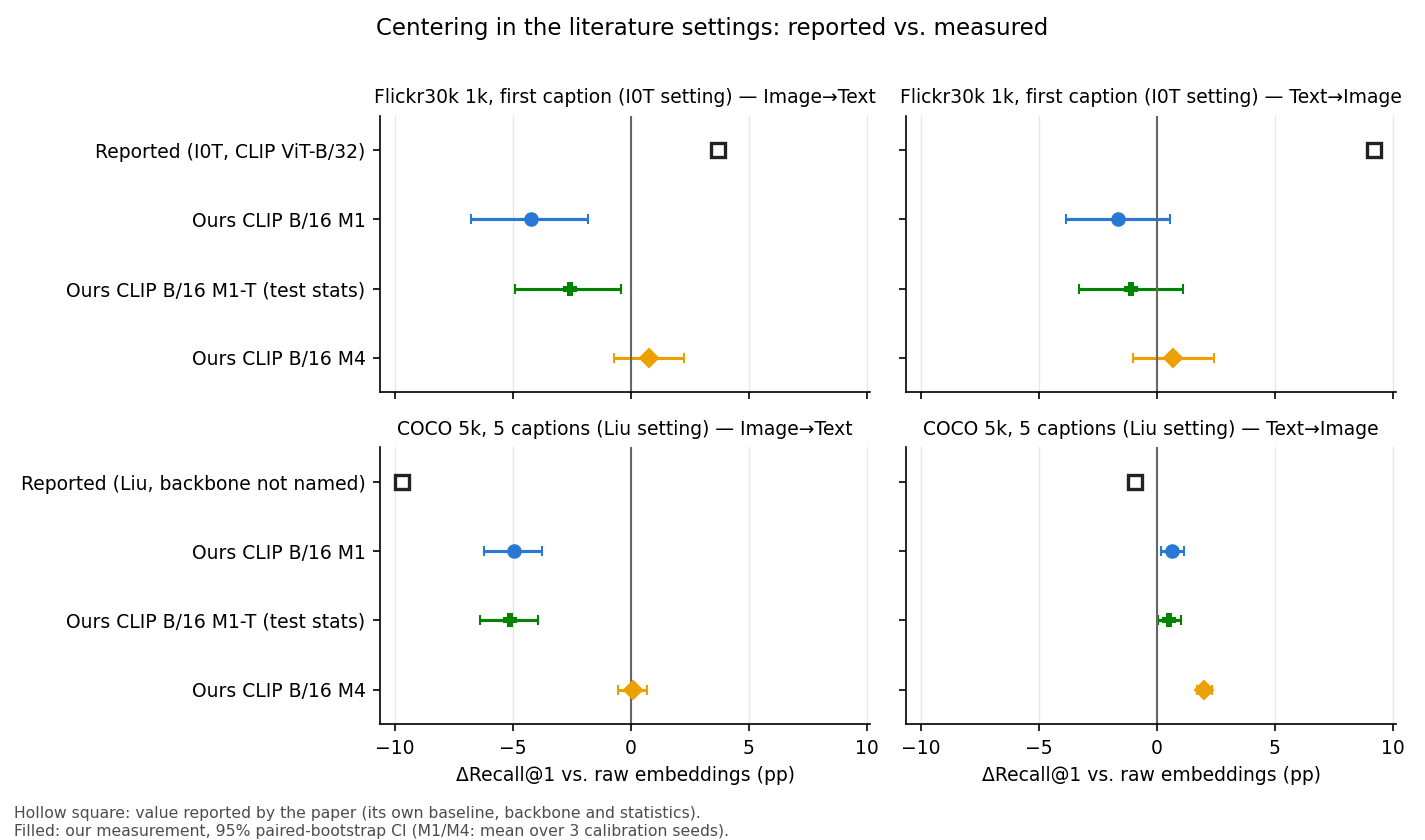
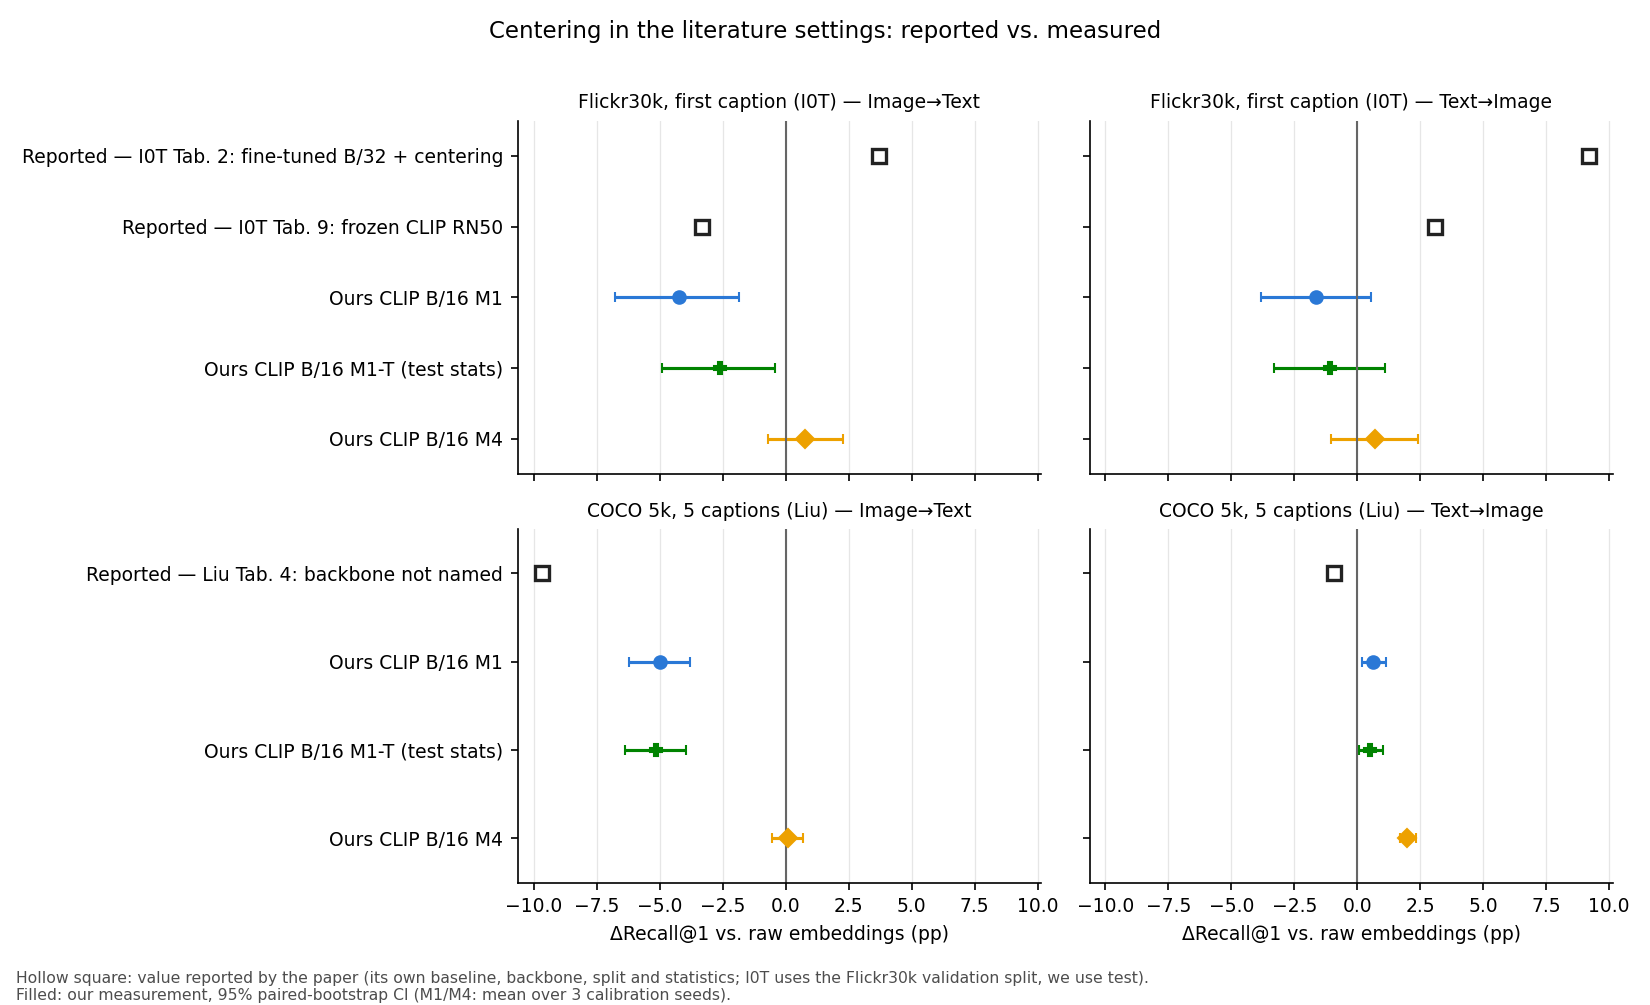
docs: re-check literature numbers against the papers; add I0T Table 9 (frozen CLIP) to the comparison; fix M2 attribution

diff --git a/scripts/c7_literature_comparison.py b/scripts/c7_literature_comparison.py
@@ -1,13 +1,18 @@
 """Literature comparison: our M0/M1 retrieval numbers in the settings of
-I0T (An et al. 2025, Table 2) and Liu et al. 2026 (Table 4).
+I0T (An et al. 2025, Tables 2 and 9) and Liu et al. 2026 (Table 4).
 
 Only our numbers are written to the CSV; the reported numbers stay in
 results/paper_reported.json and are referenced by key (column
 `reported_entry`). The figure shows both, with the reported values marked
 as such. Nothing is tuned to match the papers.
 
-  I0T setting:  Flickr30k 1k test, first caption per image   (paper: CLIP ViT-B/32)
-  Liu setting:  COCO 5k test, 5 captions per image            (paper: backbone not named in the table)
+  I0T protocol: Flickr30k 1k, first caption per image. I0T evaluates on the
+                Karpathy *validation* split with means from those samples; we
+                evaluate on the test split. Reported references:
+                  Table 2  I0T_post on fine-tuned ViT-B/32 encoders (LCCOM) vs.
+                           the original CLIP -> fine-tuning and centering combined
+                  Table 9  centering on the original, frozen CLIP RN50
+  Liu setting:  COCO 5k test, 5 captions per image (backbone not named in the table)
 
 Methods shown: M0, M1 (10k in-domain train pairs, mean over 3 seeds),
 M1-T (test statistics, diagnostic -- the likely I0T condition), M4.
@@ -32,10 +37,16 @@ FIG = ROOT / "results" / "figures"
 MODELS = ["clip_b16", "clip_b32", "siglip_b16"]
 SHORT = {"clip_b16": "CLIP B/16", "clip_b32": "CLIP B/32", "siglip_b16": "SigLIP B/16"}
 MAIN_N = 10000
-# setting -> (dataset, protocol, key in paper_reported.json, baseline row, corrected row, label)
+# setting -> (dataset, protocol, panel title)
 SETTINGS = {
-    "I0T": ("flickr30k", "first", "i0t_table2", "CLIP", "I0T_post", "Flickr30k 1k, first caption (I0T setting)"),
-    "Liu": ("mscoco", "5cap", "liu2026_table4", "Original CLIP", "Mean-Centering", "COCO 5k, 5 captions (Liu setting)"),
+    "I0T": ("flickr30k", "first", "Flickr30k, first caption (I0T)"),
+    "Liu": ("mscoco", "5cap", "COCO 5k, 5 captions (Liu)"),
+}
+# setting -> reported references: (key in paper_reported.json, baseline row, corrected row, label)
+REPORTED = {
+    "I0T": [("i0t_table2", "CLIP", "I0T_post", "I0T Tab. 2: fine-tuned B/32 + centering"),
+            ("i0t_table9", "CLIP", "CLIP_post", "I0T Tab. 9: frozen CLIP RN50")],
+    "Liu": [("liu2026_table4", "Original CLIP", "Mean-Centering", "Liu Tab. 4: backbone not named")],
 }
 DIRS = [("i2t", "Image→Text"), ("t2i", "Text→Image")]
 METHODS = ["M0", "M1", "M1-T", "M4"]
@@ -51,7 +62,8 @@ def ours(models):
     rows = []
     for m in models:
         r = pd.read_csv(RES / f"retrieval_{m}.csv")
-        for setting, (ds, proto, key, *_rest) in SETTINGS.items():
+        for setting, (ds, proto, _t) in SETTINGS.items():
+            key = ";".join(k for k, *_ in REPORTED[setting])
             for d, _ in DIRS:
                 g = r[(r.dataset == ds) & (r.protocol == proto) & (r.direction == d)]
                 for meth in METHODS:
@@ -78,24 +90,26 @@ def ours(models):
 def reported():
     paper = json.loads((ROOT / "results" / "paper_reported.json").read_text(encoding="utf-8"))
     out = {}
-    for setting, (_ds, _p, key, base, corr, _t) in SETTINGS.items():
-        rows = {r["method"]: r for r in paper[key]["rows"]}
-        out[setting] = {"model": paper[key]["model"] or "backbone not named",
-                        **{d: (rows[base][f"{d}_R@1"], rows[corr][f"{d}_R@1"]) for d, _ in DIRS}}
+    for setting, refs in REPORTED.items():
+        out[setting] = []
+        for key, base, corr, label in refs:
+            rows = {r["method"]: r for r in paper[key]["rows"]}
+            out[setting].append({"label": label, **{d: (rows[base][f"{d}_R@1"], rows[corr][f"{d}_R@1"]) for d, _ in DIRS}})
     return out
 
 
 def figure(df, rep):
     models = [m for m in MODELS if m in set(df.model)]
-    fig, axes = plt.subplots(2, 2, figsize=(9.5, 1.2 + 0.55 * (1 + 3 * len(models)) * 2), sharex=True)
+    fig, axes = plt.subplots(2, 2, figsize=(11, 1.2 + 0.55 * (2 + 3 * len(models)) * 2), sharex=True)
     for r, (setting, (*_x, title)) in enumerate(SETTINGS.items()):
         for c, (d, dname) in enumerate(DIRS):
             ax = axes[r, c]
             labels, y = [], 0
-            base, corr = rep[setting][d]
-            ax.plot(corr - base, y, marker="s", ms=7, mfc="white", mec=REPORTED_COLOR, mew=1.6, ls="none")
-            labels.append(f"Reported ({setting}, {rep[setting]['model']})")
-            y += 1
+            for ref in rep[setting]:
+                base, corr = ref[d]
+                ax.plot(corr - base, y, marker="s", ms=7, mfc="white", mec=REPORTED_COLOR, mew=1.6, ls="none")
+                labels.append(f"Reported — {ref['label']}")
+                y += 1
             for m in models:
                 for meth in ["M1", "M1-T", "M4"]:
                     q = df[(df.model == m) & (df.setting == setting) & (df.direction == d) & (df.method == meth)]
@@ -114,7 +128,8 @@ def figure(df, rep):
             ax.set_title(f"{title} — {dname}", fontsize=9)
             if r == 1:
                 ax.set_xlabel("ΔRecall@1 vs. raw embeddings (pp)")
-    fig.text(0.01, 0.005, "Hollow square: value reported by the paper (its own baseline, backbone and statistics).\n"
+    fig.text(0.01, 0.005, "Hollow square: value reported by the paper (its own baseline, backbone, split and statistics; "
+                          "I0T uses the Flickr30k validation split, we use test).\n"
                           "Filled: our measurement, 95% paired-bootstrap CI (M1/M4: mean over 3 calibration seeds).",
              fontsize=7.5, color="0.3")
     fig.suptitle("Centering in the literature settings: reported vs. measured", fontsize=11)

diff --git a/scripts/make_summary.py b/scripts/make_summary.py
@@ -197,22 +197,25 @@ def literature():
     w()
     w("Source: `results/improvement/literature_comparison.csv` (ours) and `results/paper_reported.json` "
       "(reported by the papers, not measured by us). Figure: `results/figures/fig_literature_comparison.png`. "
-      "Reported rows use the papers' own baselines, backbones and statistics; ours use the setup of §2.1. "
+      "Reported rows use the papers' own baselines, backbones, splits and statistics; ours use the setup of §2.1. "
+      "I0T evaluates on the Flickr30k Karpathy validation split with means from the evaluated samples; its Table 2 "
+      "applies centering to fine-tuned encoders (compared with the original CLIP), its Table 9 to the frozen CLIP RN50. "
       "M1/M4: mean over 3 calibration seeds of the estimate and the per-seed 95% CI bounds. "
       "M1-T uses test statistics (diagnostic only).")
     w()
-    specs = [("I0T", "i0t_table2", "CLIP", "I0T_post", "Flickr30k 1k, first caption"),
-             ("Liu", "liu2026_table4", "Original CLIP", "Mean-Centering", "COCO 5k, 5 captions")]
+    import sys
+    sys.path.insert(0, str(ROOT / "scripts"))
+    from c7_literature_comparison import REPORTED, SETTINGS as LSET
     for d, dname in DIRS.items():
         w(f"**{dname}** (R@1, %)")
         w()
         rows = []
-        for setting, key, base, corr, title in specs:
-            e = paper[key]
-            rr = {r["method"]: r for r in e["rows"]}
-            b, c = rr[base][f"{d}_R@1"], rr[corr][f"{d}_R@1"]
-            rows.append([title, f"reported: {setting} ({e['source'].split(';')[0].split(' (')[0]})", e["model"] or "not named",
-                         f"{b:.2f}", f"{c:.2f} ({corr})", f"{c - b:+.2f}", ""])
+        for setting, refs in REPORTED.items():
+            title = LSET[setting][2]
+            for key, base, corr, label in refs:
+                rr = {r["method"]: r for r in paper[key]["rows"]}
+                b, c = rr[base][f"{d}_R@1"], rr[corr][f"{d}_R@1"]
+                rows.append([title, f"reported: {label}", f"{b:.2f}", f"{c:.2f} ({corr})", f"{c - b:+.2f}", ""])
             for m in MODELS:
                 g = df[(df.model == m) & (df.setting == setting) & (df.direction == d)]
                 if not len(g):
@@ -223,9 +226,9 @@ def literature():
                     if not len(q):
                         continue
                     q = q.iloc[0]
-                    rows.append([title, f"ours: {meth}", NAMES[m], pct(m0), pct(q["R@1"]),
+                    rows.append([title, f"ours: {NAMES[m]}, {meth}", pct(m0), pct(q["R@1"]),
                                  ci(q["dR@1"], q["dR@1_lo"], q["dR@1_hi"], sign=True), excl0(q["dR@1_lo"], q["dR@1_hi"])])
-        table(["Setting", "Source", "Backbone", "Baseline", "Corrected", "Δ [95% CI] (pp)", "CI excludes 0"], rows)
+        table(["Setting", "Source", "Baseline", "Corrected", "Δ [95% CI] (pp)", "CI excludes 0"], rows)
 
 
 def zero_shot(m):

diff --git a/src/gap.py b/src/gap.py
@@ -15,8 +15,9 @@ lambda * ||Delta|| = 0.5 * delta.
 
 Centering (I0T_post, An et al. 2025; GR-CLIP, Li et al. 2025 — attributed):
     M1: x' = norm(x - mean_x_calib)     (with re-normalization)
-    M2: x' = x - mean_x_calib           (no re-normalization; cosine scoring
-                                          is then NOT used, raw dot product is)
+    M2: x' = x - mean_x_calib           (ablation, no re-normalization; cosine scoring
+                                          is then NOT used, raw dot product is.
+                                          GR-CLIP scores with cosine, so it corresponds to M1)
 """
 from __future__ import annotations
 

diff --git a/scripts/c1_retrieval.py b/scripts/c1_retrieval.py
@@ -3,7 +3,7 @@
 Methods (see results/improvement/HYPOTHESES.md; none of them is ours):
   M0    raw L2-normalized embeddings
   M1    norm(x - mu_x), mu from calibration pairs        (I0T_post form)
-  M2    x - mu_x, no re-normalization, dot-product score (GR-CLIP form)
+  M2    x - mu_x, no re-normalization, dot-product score (re-normalization ablation)
   M3    Mind-the-Gap shift, direction from calibration pairs,
         delta chosen on validation, separately for I2T and T2I
   M4    norm(x - alpha*mu_x), alpha in {0,0.1,..,1} chosen on validation,

diff --git a/results/SUMMARY.md b/results/SUMMARY.md
@@ -1,6 +1,6 @@
 # Results summary
 
-Generated by `scripts/make_summary.py` from the files in `results/` (repository commit 2cb0589 at generation time; each result file also records the commit that produced it). Facts only; no interpretation. Numbers reported by other papers are kept in `results/paper_reported.json` and are labeled as such.
+Generated by `scripts/make_summary.py` from the files in `results/` (repository commit 8e4b4b1 at generation time; each result file also records the commit that produced it). Facts only; no interpretation. Numbers reported by other papers are kept in `results/paper_reported.json` and are labeled as such.
 
 Models with results: CLIP ViT-B/16 (OpenAI).
 
@@ -143,33 +143,35 @@ Source: `results/improvement/zero_shot_clip_b16.csv`. Image mean from 5k calibra
 
 ### 2.3 Literature settings: reported vs. measured
 
-Source: `results/improvement/literature_comparison.csv` (ours) and `results/paper_reported.json` (reported by the papers, not measured by us). Figure: `results/figures/fig_literature_comparison.png`. Reported rows use the papers' own baselines, backbones and statistics; ours use the setup of §2.1. M1/M4: mean over 3 calibration seeds of the estimate and the per-seed 95% CI bounds. M1-T uses test statistics (diagnostic only).
+Source: `results/improvement/literature_comparison.csv` (ours) and `results/paper_reported.json` (reported by the papers, not measured by us). Figure: `results/figures/fig_literature_comparison.png`. Reported rows use the papers' own baselines, backbones, splits and statistics; ours use the setup of §2.1. I0T evaluates on the Flickr30k Karpathy validation split with means from the evaluated samples; its Table 2 applies centering to fine-tuned encoders (compared with the original CLIP), its Table 9 to the frozen CLIP RN50. M1/M4: mean over 3 calibration seeds of the estimate and the per-seed 95% CI bounds. M1-T uses test statistics (diagnostic only).
 
 **Image→Text** (R@1, %)
 
-| Setting | Source | Backbone | Baseline | Corrected | Δ [95% CI] (pp) | CI excludes 0 |
-|---|---|---|---|---|---|---|
-| Flickr30k 1k, first caption | reported: I0T (Table 2) | CLIP ViT-B/32 | 69.60 | 73.30 (I0T_post) | +3.70 |  |
-| Flickr30k 1k, first caption | ours: M1 | CLIP ViT-B/16 (OpenAI) | 70.10 | 65.87 | -4.23 [-6.77, -1.83] | yes (<0) |
-| Flickr30k 1k, first caption | ours: M1-T | CLIP ViT-B/16 (OpenAI) | 70.10 | 67.50 | -2.60 [-4.90, -0.40] | yes (<0) |
-| Flickr30k 1k, first caption | ours: M4 | CLIP ViT-B/16 (OpenAI) | 70.10 | 70.87 | +0.77 [-0.70, +2.27] | no |
-| COCO 5k, 5 captions | reported: Liu (Table 4) | not named | 53.42 | 43.74 (Mean-Centering) | -9.68 |  |
-| COCO 5k, 5 captions | ours: M1 | CLIP ViT-B/16 (OpenAI) | 52.48 | 47.51 | -4.97 [-6.23, -3.79] | yes (<0) |
-| COCO 5k, 5 captions | ours: M1-T | CLIP ViT-B/16 (OpenAI) | 52.48 | 47.34 | -5.14 [-6.38, -3.94] | yes (<0) |
-| COCO 5k, 5 captions | ours: M4 | CLIP ViT-B/16 (OpenAI) | 52.48 | 52.57 | +0.09 [-0.55, +0.69] | no |
+| Setting | Source | Baseline | Corrected | Δ [95% CI] (pp) | CI excludes 0 |
+|---|---|---|---|---|---|
+| Flickr30k, first caption (I0T) | reported: I0T Tab. 2: fine-tuned B/32 + centering | 69.60 | 73.30 (I0T_post) | +3.70 |  |
+| Flickr30k, first caption (I0T) | reported: I0T Tab. 9: frozen CLIP RN50 | 71.30 | 68.00 (CLIP_post) | -3.30 |  |
+| Flickr30k, first caption (I0T) | ours: CLIP ViT-B/16 (OpenAI), M1 | 70.10 | 65.87 | -4.23 [-6.77, -1.83] | yes (<0) |
+| Flickr30k, first caption (I0T) | ours: CLIP ViT-B/16 (OpenAI), M1-T | 70.10 | 67.50 | -2.60 [-4.90, -0.40] | yes (<0) |
+| Flickr30k, first caption (I0T) | ours: CLIP ViT-B/16 (OpenAI), M4 | 70.10 | 70.87 | +0.77 [-0.70, +2.27] | no |
+| COCO 5k, 5 captions (Liu) | reported: Liu Tab. 4: backbone not named | 53.42 | 43.74 (Mean-Centering) | -9.68 |  |
+| COCO 5k, 5 captions (Liu) | ours: CLIP ViT-B/16 (OpenAI), M1 | 52.48 | 47.51 | -4.97 [-6.23, -3.79] | yes (<0) |
+| COCO 5k, 5 captions (Liu) | ours: CLIP ViT-B/16 (OpenAI), M1-T | 52.48 | 47.34 | -5.14 [-6.38, -3.94] | yes (<0) |
+| COCO 5k, 5 captions (Liu) | ours: CLIP ViT-B/16 (OpenAI), M4 | 52.48 | 52.57 | +0.09 [-0.55, +0.69] | no |
 
 **Text→Image** (R@1, %)
 
-| Setting | Source | Backbone | Baseline | Corrected | Δ [95% CI] (pp) | CI excludes 0 |
-|---|---|---|---|---|---|---|
-| Flickr30k 1k, first caption | reported: I0T (Table 2) | CLIP ViT-B/32 | 67.10 | 76.30 (I0T_post) | +9.20 |  |
-| Flickr30k 1k, first caption | ours: M1 | CLIP ViT-B/16 (OpenAI) | 70.00 | 68.37 | -1.63 [-3.83, +0.54] | no |
-| Flickr30k 1k, first caption | ours: M1-T | CLIP ViT-B/16 (OpenAI) | 70.00 | 68.90 | -1.10 [-3.30, +1.10] | no |
-| Flickr30k 1k, first caption | ours: M4 | CLIP ViT-B/16 (OpenAI) | 70.00 | 70.70 | +0.70 [-1.03, +2.40] | no |
-| COCO 5k, 5 captions | reported: Liu (Table 4) | not named | 35.36 | 34.44 (Mean-Centering) | -0.92 |  |
-| COCO 5k, 5 captions | ours: M1 | CLIP ViT-B/16 (OpenAI) | 33.08 | 33.71 | +0.63 [+0.18, +1.13] | yes (>0) |
-| COCO 5k, 5 captions | ours: M1-T | CLIP ViT-B/16 (OpenAI) | 33.08 | 33.60 | +0.52 [+0.05, +1.02] | yes (>0) |
-| COCO 5k, 5 captions | ours: M4 | CLIP ViT-B/16 (OpenAI) | 33.08 | 35.08 | +1.99 [+1.68, +2.32] | yes (>0) |
+| Setting | Source | Baseline | Corrected | Δ [95% CI] (pp) | CI excludes 0 |
+|---|---|---|---|---|---|
+| Flickr30k, first caption (I0T) | reported: I0T Tab. 2: fine-tuned B/32 + centering | 67.10 | 76.30 (I0T_post) | +9.20 |  |
+| Flickr30k, first caption (I0T) | reported: I0T Tab. 9: frozen CLIP RN50 | 67.20 | 70.30 (CLIP_post) | +3.10 |  |
+| Flickr30k, first caption (I0T) | ours: CLIP ViT-B/16 (OpenAI), M1 | 70.00 | 68.37 | -1.63 [-3.83, +0.54] | no |
+| Flickr30k, first caption (I0T) | ours: CLIP ViT-B/16 (OpenAI), M1-T | 70.00 | 68.90 | -1.10 [-3.30, +1.10] | no |
+| Flickr30k, first caption (I0T) | ours: CLIP ViT-B/16 (OpenAI), M4 | 70.00 | 70.70 | +0.70 [-1.03, +2.40] | no |
+| COCO 5k, 5 captions (Liu) | reported: Liu Tab. 4: backbone not named | 35.36 | 34.44 (Mean-Centering) | -0.92 |  |
+| COCO 5k, 5 captions (Liu) | ours: CLIP ViT-B/16 (OpenAI), M1 | 33.08 | 33.71 | +0.63 [+0.18, +1.13] | yes (>0) |
+| COCO 5k, 5 captions (Liu) | ours: CLIP ViT-B/16 (OpenAI), M1-T | 33.08 | 33.60 | +0.52 [+0.05, +1.02] | yes (>0) |
+| COCO 5k, 5 captions (Liu) | ours: CLIP ViT-B/16 (OpenAI), M4 | 33.08 | 35.08 | +1.99 [+1.68, +2.32] | yes (>0) |
 
 ## 3. Controls and ablations
 

diff --git a/README.md b/README.md
@@ -38,9 +38,9 @@ None of them is our invention:
 |----|--------|--------|
 | M0 | raw embeddings | — |
 | M1 | subtract each modality's mean (train split), re-normalize | I0T_post (An et al., ACL 2025); GR-CLIP (Li et al., NeurIPS 2025) |
-| M2 | subtract means, no re-normalization (ablation) | GR-CLIP form |
+| M2 | subtract means, no re-normalization, dot-product score | re-normalization ablation (GR-CLIP subtracts means but scores with cosine, i.e. M1) |
 | M3 | Mind-the-Gap shift, δ chosen on validation | Liang et al. 2022 |
-| M4 | norm(x − α·μ), α chosen on validation per retrieval direction | combination of M1 with a grid-selected scale (as in M3 and Sato et al. 2026) |
+| M4 | norm(x − α·μ), α chosen on validation per retrieval direction | combination of M1 with a grid-selected strength (like δ of M3 and the shift strength α of Sato et al. 2026) |
 | C1 | shift by a random vector with the gap's norm (control) | — |
 | M1-T | M1 with test-set means — **diagnostic only** | condition of I0T |
 
